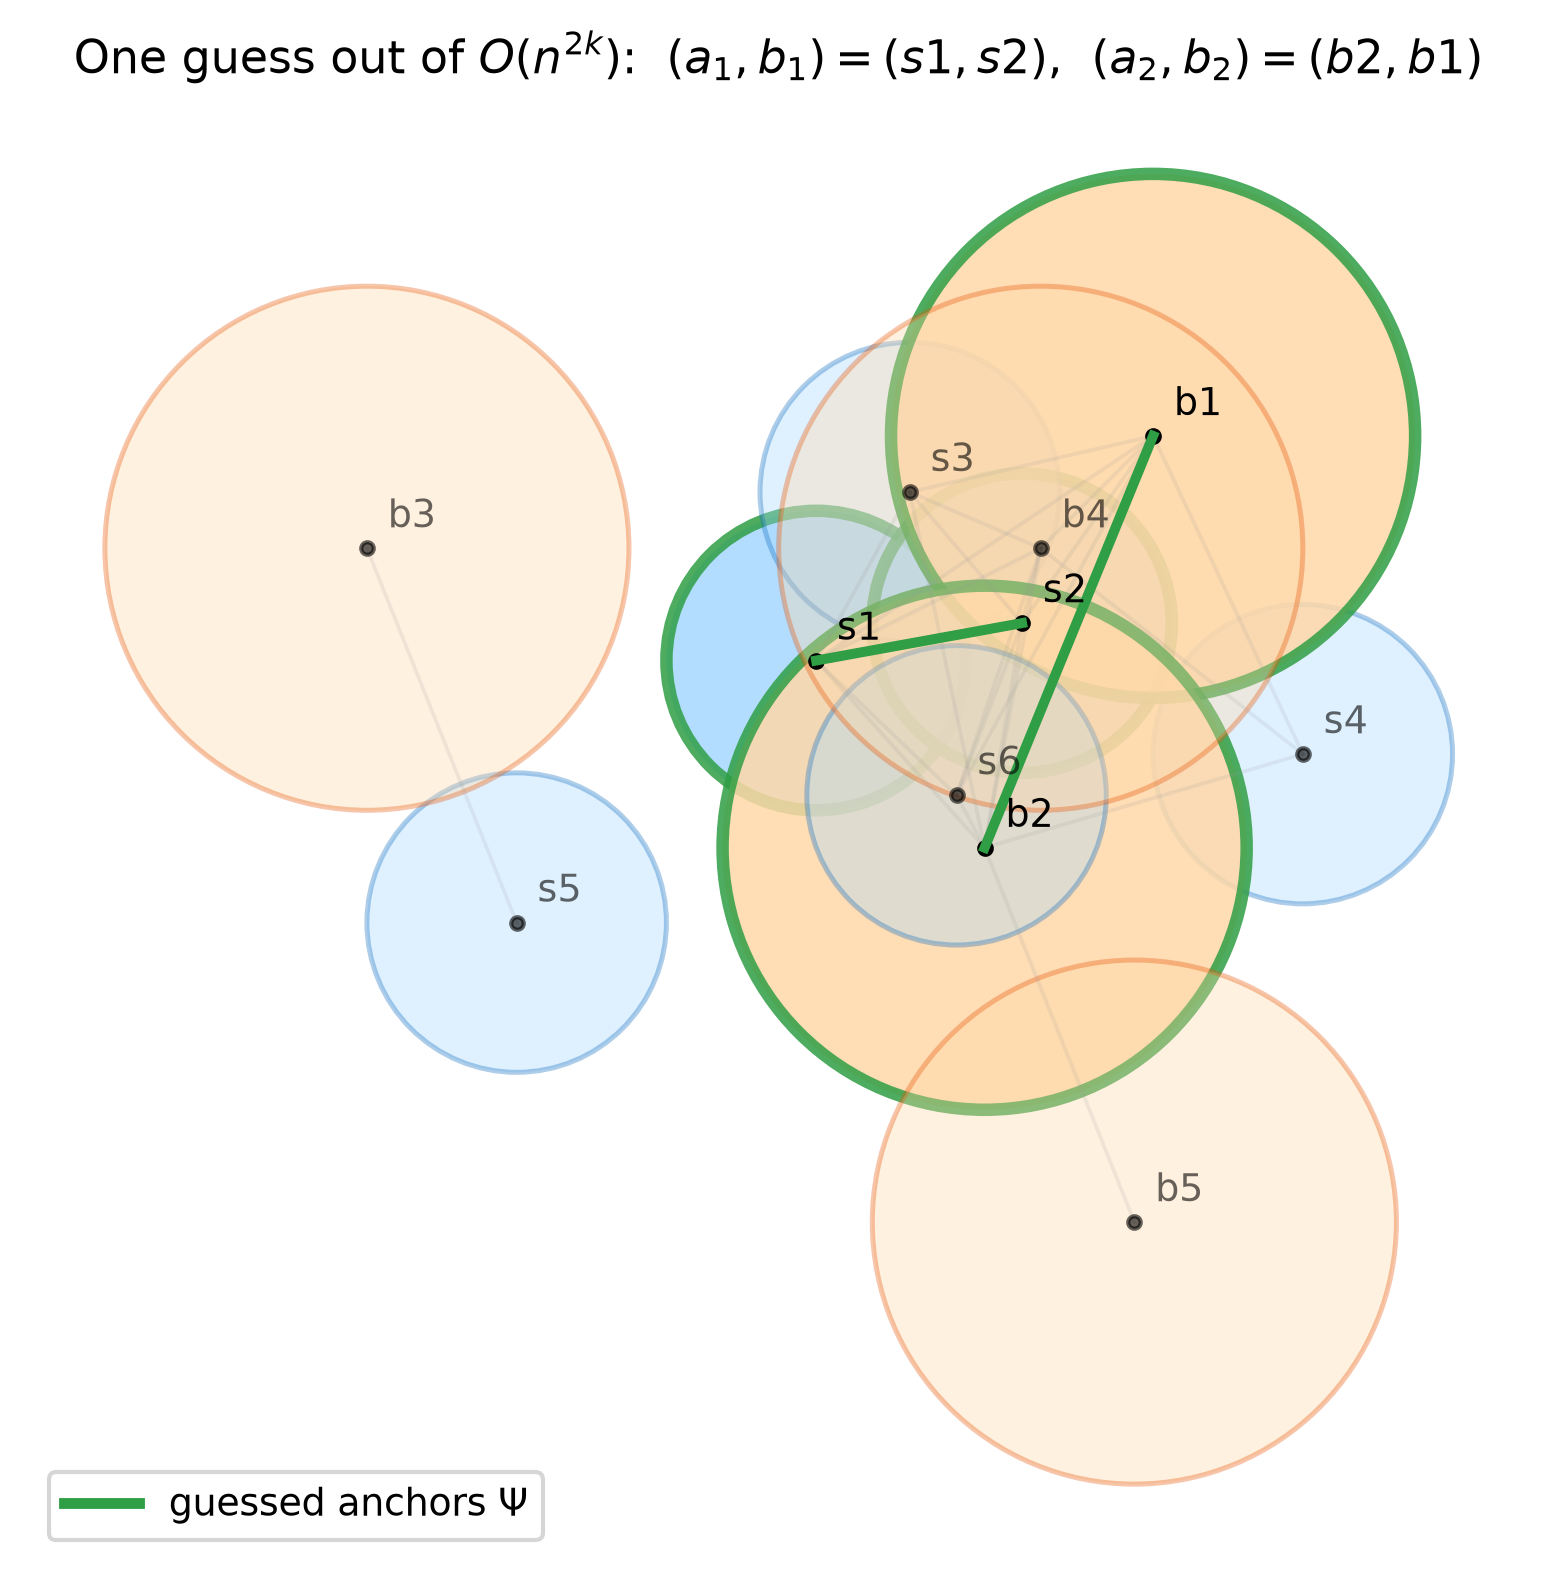
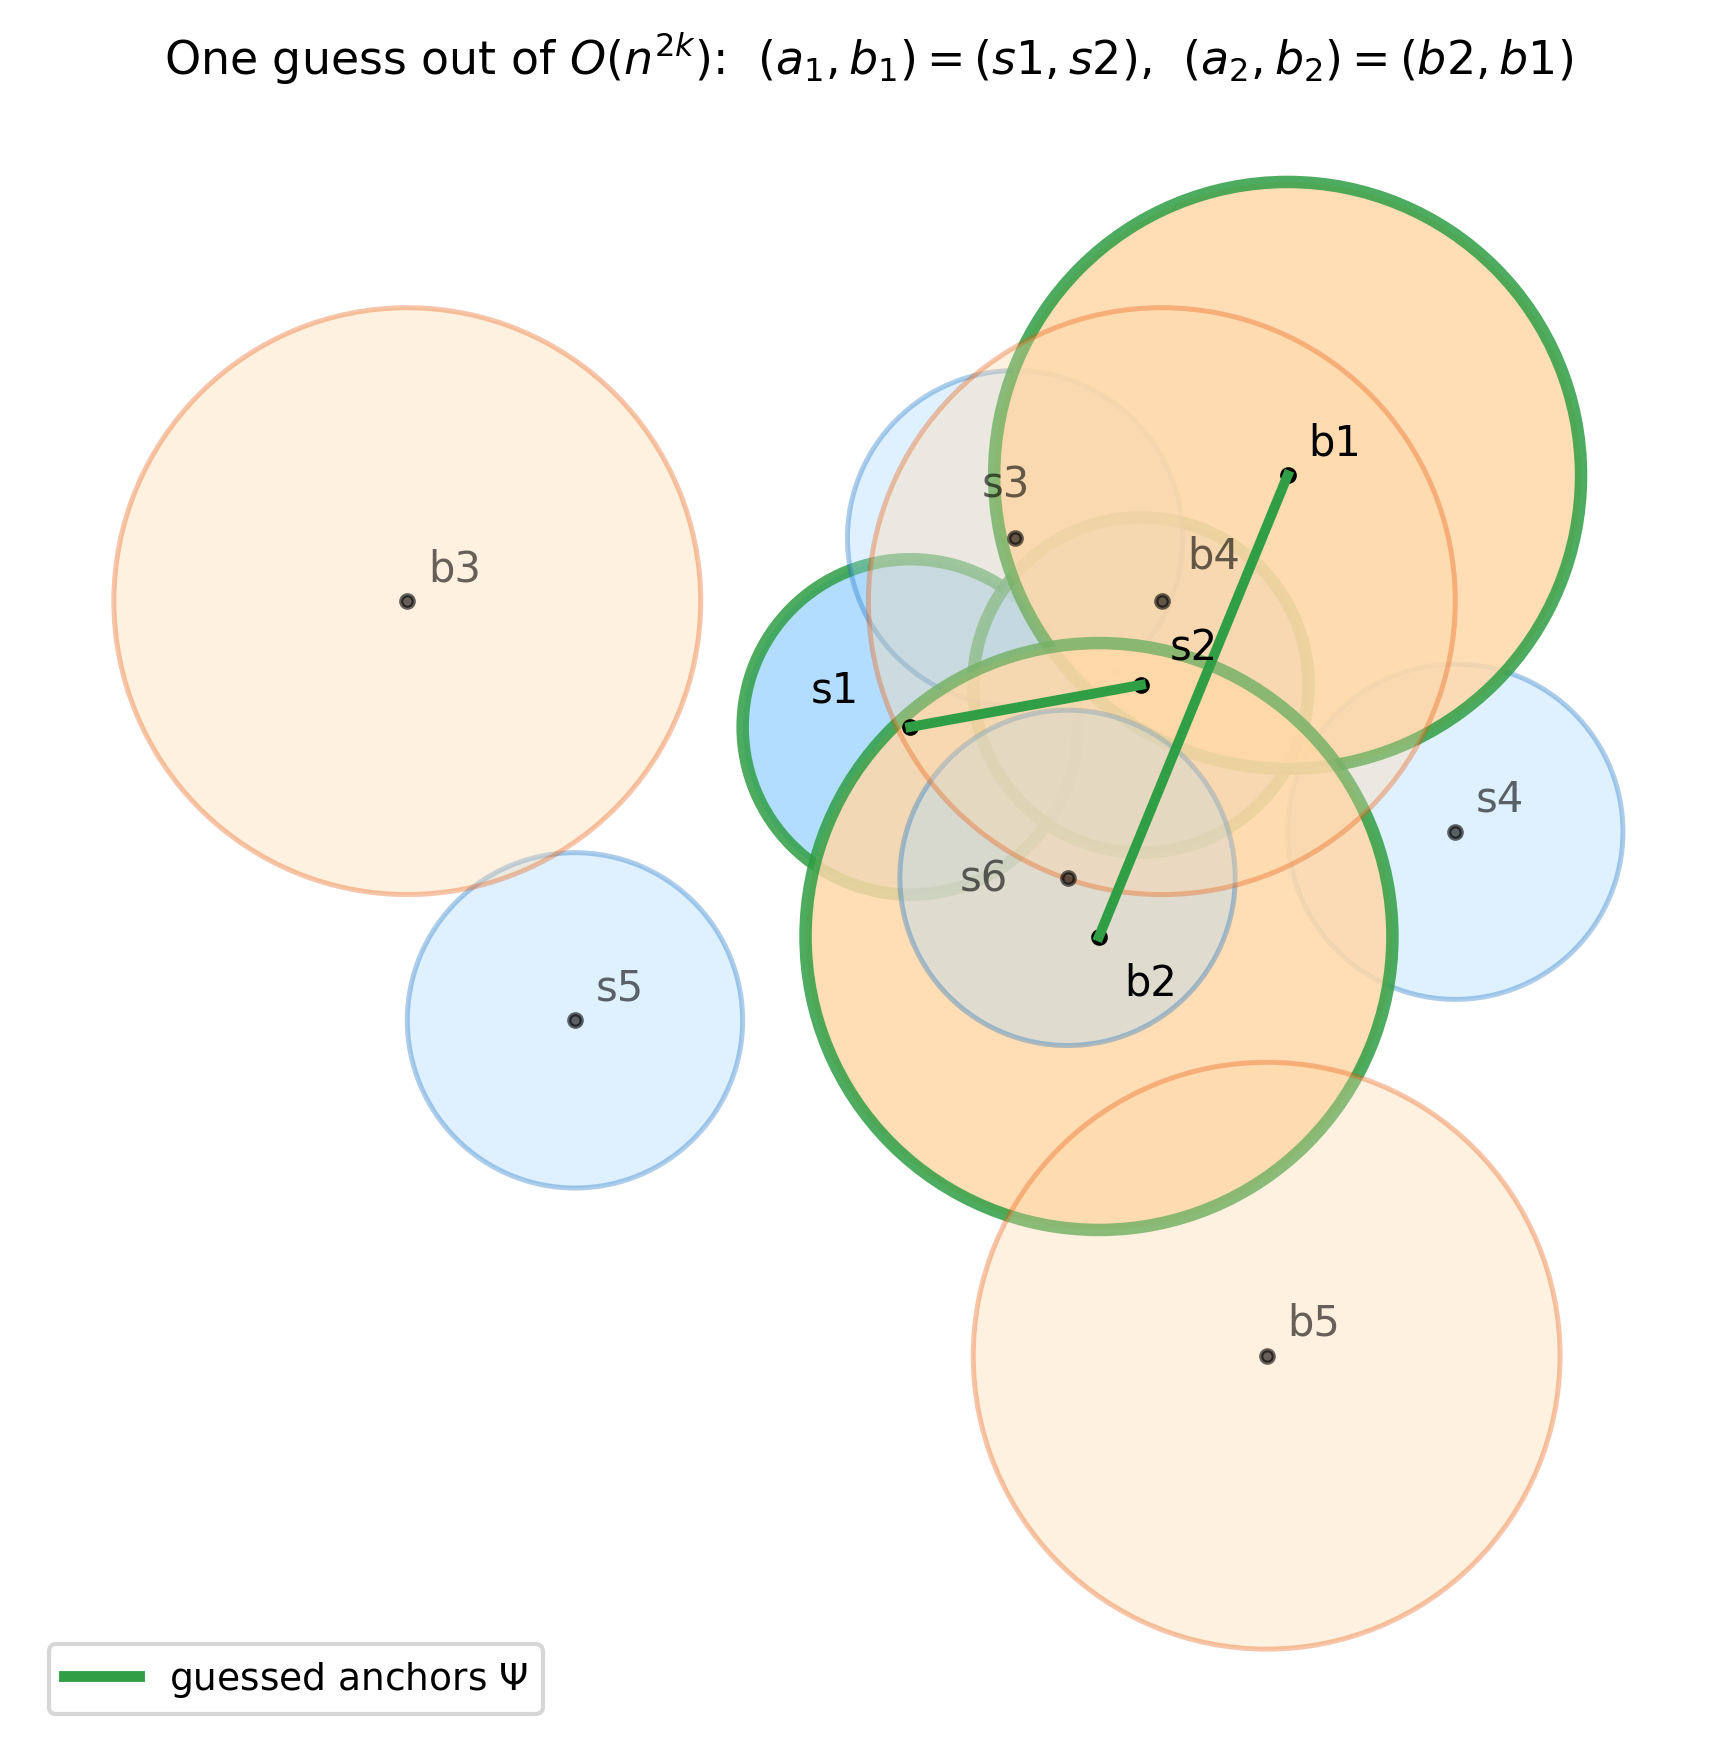
Algorithm figures S8-S11 + legibility and palette feedback
- Y survivors now magenta (#d6336c) - was too close to Psi's green
- Wider canvas (8.2x6), per-disk label offsets, dropped background
  adjacency clutter from algorithm figures
- New: fig_x_clique (S8), fig_missing_edges (S9), fig_complement
  (S10: candidate graph vs bipartite H, max matching + Koenig count),
  fig_assembly (S11)
- make_algo_scene now also computes the max matching in H; Koenig
  identity asserted in tests

diff --git a/scene_figures.py b/scene_figures.py
@@ -20,10 +20,16 @@ from matplotlib.lines import Line2D
 
 TYPE_FACE = {1: "#a5d8ff", 2: "#ffd8a8"}      # fill by radius type
 TYPE_EDGE = {1: "#1971c2", 2: "#e8590c"}
-PSI_EDGE  = "#2f9e44"                         # guessed anchors (Psi)
-X_EDGE    = "#7048e8"                         # upper-slab survivors
-Y_EDGE    = "#0ca678"                         # lower-slab survivors
+PSI_EDGE  = "#2f9e44"                         # guessed anchors (Psi) - green
+X_EDGE    = "#7048e8"                         # upper-slab survivors  - violet
+Y_EDGE    = "#d6336c"                         # lower-slab survivors  - magenta
 EPS       = 1e-12
+
+# per-disk label nudges (points) to keep the crowded core legible
+LABEL_OFFSETS = {
+    "s1": (-24, 6), "s2": (7, 6), "s3": (-8, 10),
+    "s6": (-26, -3), "b2": (6, -14), "b4": (6, 8),
+}
 
 R1, R2 = 0.8, 1.4
 
@@ -142,9 +148,18 @@ def make_algo_scene(scene=None, guess=None):
                key=len)
     final = sorted(set(psi) | set(best))
 
+    # maximum matching in the complement H (brute force; H is tiny) —
+    # Koenig: |max matching| = |X ∪ Y| − |max independent set of H|
+    matching = max(
+        (M for m in range(len(comp_edges), -1, -1)
+         for M in itertools.combinations(comp_edges, m)
+         if len({v for e in M for v in e}) == 2 * len(M)),
+        key=len)
+
     return SimpleNamespace(
         s=s, guess=guess, psi=psi, psi_valid=psi_valid,
         X=X, Y=Y, reasons=reasons, comp_edges=comp_edges,
+        matching=list(matching),
         chosen=list(best), final=final, seg_y=seg_y,
     )
 
@@ -158,7 +173,7 @@ def _limits(s, pad=0.4):
     hi = (s.pos + s.rad[:, None]).max(axis=0) + pad
     return (lo[0], hi[0]), (lo[1], hi[1])
 
-def _base_axes(s, figsize=(6.8, 5.4)):
+def _base_axes(s, figsize=(8.2, 6.0)):
     fig, ax = plt.subplots(figsize=figsize)
     xlim, ylim = _limits(s)
     ax.set_aspect("equal"); ax.set_xlim(*xlim); ax.set_ylim(*ylim)
@@ -171,7 +186,8 @@ def _disk(ax, s, i, edge, lw=1.2, alpha=.85, label_alpha=1.0, fill=True):
                         edgecolor=edge, alpha=alpha, lw=lw, zorder=2))
     ax.plot(*s.pos[i], "o", color="k", ms=3, alpha=label_alpha, zorder=4)
     ax.annotate(s.name[i], s.pos[i], textcoords="offset points",
-                xytext=(5, 5), fontsize=9, alpha=label_alpha, zorder=5)
+                xytext=LABEL_OFFSETS.get(s.name[i], (5, 5)),
+                fontsize=10, alpha=label_alpha, zorder=5)
 
 def _gray_edges(ax, s, dim=False):
     for i, j in itertools.combinations(range(s.n), 2):
@@ -265,7 +281,6 @@ def fig_guess(ascene, save=None):
     """S5 — one iteration's guess: anchors of each type highlighted."""
     a, s = ascene, ascene.s
     fig, ax = _base_axes(s)
-    _gray_edges(ax, s, dim=True)
     for i in range(s.n):
         if i in a.psi:
             _disk(ax, s, i, PSI_EDGE, lw=3.0)
@@ -289,7 +304,6 @@ def fig_invalid_guess(scene, pair, save=None):
     s = scene
     i, j = pair
     fig, ax = _base_axes(s)
-    _gray_edges(ax, s, dim=True)
     for m in range(s.n):
         if m in (i, j):
             _disk(ax, s, m, "#e03131", lw=3.0)
@@ -322,7 +336,6 @@ def fig_slabs(ascene, save=None):
         for xw in (xa, xb):
             ax.plot([xw, xw], [ylo, yhi], color=TYPE_EDGE[t], ls="--",
                     lw=1.2, zorder=1)
-    _gray_edges(ax, s, dim=True)
     for i in range(s.n):
         if i in a.psi:
             _disk(ax, s, i, PSI_EDGE, lw=3.0, alpha=.9, fill=False)
@@ -342,7 +355,6 @@ def fig_filter(ascene, save=None):
     disk is discarded with its reason."""
     a, s = ascene, ascene.s
     fig, ax = _base_axes(s)
-    _gray_edges(ax, s, dim=True)
     for i in range(s.n):
         if i in a.psi:
             _disk(ax, s, i, PSI_EDGE, lw=3.0)
@@ -367,5 +379,137 @@ def fig_filter(ascene, save=None):
     ax.set_title(
         "The filter: keep a disk iff its center is in its type's slab\n"
         "AND it intersects every disk of $\\Psi$", fontsize=11)
+    fig.tight_layout()
+    return _finish(fig, save)
+
+
+# --------------------------------------------------------------------------
+# Chapter 3 — algorithm walk-through (storyboard S8-S11)
+# --------------------------------------------------------------------------
+
+def fig_x_clique(ascene, save=None):
+    """S8 — Lemma 3.1 payoff: the upper camp X (with Psi) is one clique."""
+    a, s = ascene, ascene.s
+    fig, ax = _base_axes(s)
+    camp = a.X + a.psi
+    for i in range(s.n):
+        if i in a.X:
+            _disk(ax, s, i, X_EDGE, lw=3.0)
+        elif i in a.psi:
+            _disk(ax, s, i, PSI_EDGE, lw=2.2, alpha=.55, fill=False)
+        else:
+            _disk(ax, s, i, "#adb5bd", lw=1.0, alpha=.12, label_alpha=.3)
+    for i, j in itertools.combinations(camp, 2):
+        both_x = i in a.X and j in a.X
+        ax.plot(*np.c_[s.pos[i], s.pos[j]],
+                color="#333" if both_x else "#2f9e44",
+                lw=2.6 if both_x else 1.0,
+                alpha=.95 if both_x else .45, zorder=3)
+    ax.set_title(
+        "Lemma 3.1: the disks of $X$ are mutually adjacent — guaranteed,\n"
+        "for every guess (thin green: adjacency to $\\Psi$, by construction)",
+        fontsize=11)
+    fig.tight_layout()
+    return _finish(fig, save)
+
+
+def fig_missing_edges(ascene, save=None):
+    """S9 — X ∪ Y is NOT a clique: the missing pairs cross the camps."""
+    a, s = ascene, ascene.s
+    fig, ax = _base_axes(s)
+    for i in range(s.n):
+        if i in a.X:
+            _disk(ax, s, i, X_EDGE, lw=3.0)
+        elif i in a.Y:
+            _disk(ax, s, i, Y_EDGE, lw=3.0)
+        elif i in a.psi:
+            _disk(ax, s, i, PSI_EDGE, lw=2.2, alpha=.5, fill=False)
+        else:
+            _disk(ax, s, i, "#adb5bd", lw=1.0, alpha=.12, label_alpha=.3)
+    cand = a.X + a.Y
+    for i, j in itertools.combinations(cand, 2):
+        if s.adj[i][j]:
+            ax.plot(*np.c_[s.pos[i], s.pos[j]], color="#333", lw=2.2,
+                    alpha=.9, zorder=3)
+    for i, j in a.comp_edges:
+        mid = (s.pos[i] + s.pos[j]) / 2
+        ax.plot(*np.c_[s.pos[i], s.pos[j]], color="#e03131", lw=2.2,
+                ls="--", zorder=3)
+        ax.annotate("✗", mid, fontsize=20, color="#e03131",
+                    ha="center", va="center", zorder=6)
+    ax.set_title(
+        "But $X \\cup Y$ is not a clique: pairs across the camps may miss\n"
+        "(red dashed) — some disks of $X$ and $Y$ cannot coexist",
+        fontsize=11)
+    fig.tight_layout()
+    return _finish(fig, save)
+
+
+def _graph_panel(ax, ascene, edges, bold_edges=(), ring=(), title=""):
+    """Abstract node-link panel: X stacked on the left, Y on the right."""
+    a, s = ascene, ascene.s
+    ys_x = np.linspace(1, -1, max(len(a.X), 1))
+    ys_y = np.linspace(1, -1, max(len(a.Y), 1))
+    P = {i: (-1.0, ys_x[k]) for k, i in enumerate(a.X)}
+    P.update({i: (1.0, ys_y[k]) for k, i in enumerate(a.Y)})
+    for i, j in edges:
+        bold = (i, j) in bold_edges or (j, i) in bold_edges
+        ax.plot(*np.c_[P[i], P[j]], color="#e03131" if bold else "#555",
+                lw=3.2 if bold else 1.6, zorder=2)
+    for i, xy in P.items():
+        col = X_EDGE if i in a.X else Y_EDGE
+        ax.plot(*xy, "o", ms=16, color=col, zorder=3)
+        if i in ring:
+            ax.plot(*xy, "o", ms=26, mfc="none", mec=PSI_EDGE, mew=2.5,
+                    zorder=4)
+        ax.annotate(s.name[i], xy, textcoords="offset points",
+                    xytext=(0, 16), ha="center", fontsize=11, zorder=5)
+    ax.set_title(title, fontsize=11)
+    ax.set_xlim(-1.9, 1.9); ax.set_ylim(-1.7, 1.7)
+    ax.set_aspect("equal"); ax.axis("off")
+
+
+def fig_complement(ascene, save=None):
+    """S10 — the candidate graph vs its complement H; matching + selection."""
+    a, s = ascene, ascene.s
+    cand = a.X + a.Y
+    adj_edges = [(i, j) for i, j in itertools.combinations(cand, 2)
+                 if s.adj[i][j]]
+    fig, (axl, axr) = plt.subplots(1, 2, figsize=(10.5, 5))
+    _graph_panel(axl, a, adj_edges,
+                 title="candidate graph on $X \\cup Y$\n"
+                       "(max clique = what we want)")
+    _graph_panel(axr, a, a.comp_edges, bold_edges=a.matching, ring=a.chosen,
+                 title="complement $H$ — bipartite!\n"
+                       "(bold: max matching; ringed: max independent set)")
+    kx = len(cand) - len(a.matching)
+    fig.suptitle(
+        rf"Kőnig: $\alpha(H) = |X \cup Y| - $ matching $= {len(cand)} - "
+        rf"{len(a.matching)} = {kx}$  →  chosen: "
+        + "{" + ", ".join(s.name[i] for i in a.chosen) + "}",
+        fontsize=12)
+    fig.tight_layout()
+    return _finish(fig, save)
+
+
+def fig_assembly(ascene, save=None):
+    """S11 — assembly: Psi ∪ (selected disks) is the iteration's output."""
+    a, s = ascene, ascene.s
+    fig, ax = _base_axes(s)
+    for i in range(s.n):
+        if i in a.final:
+            edge = PSI_EDGE if i in a.psi else (
+                X_EDGE if i in a.X else Y_EDGE)
+            _disk(ax, s, i, edge, lw=3.0)
+        else:
+            _disk(ax, s, i, "#adb5bd", lw=1.0, alpha=.12, label_alpha=.3)
+    for i, j in itertools.combinations(a.final, 2):
+        ax.plot(*np.c_[s.pos[i], s.pos[j]], color="#333", lw=1.8,
+                alpha=.85, zorder=3)
+    ax.set_title(
+        rf"Output of this iteration: $\Psi \cup$ selected disks — a clique of"
+        rf" size {len(a.final)}"
+        "\n(the algorithm returns the max over all $O(n^{2k})$ guesses)",
+        fontsize=11)
     fig.tight_layout()
     return _finish(fig, save)
